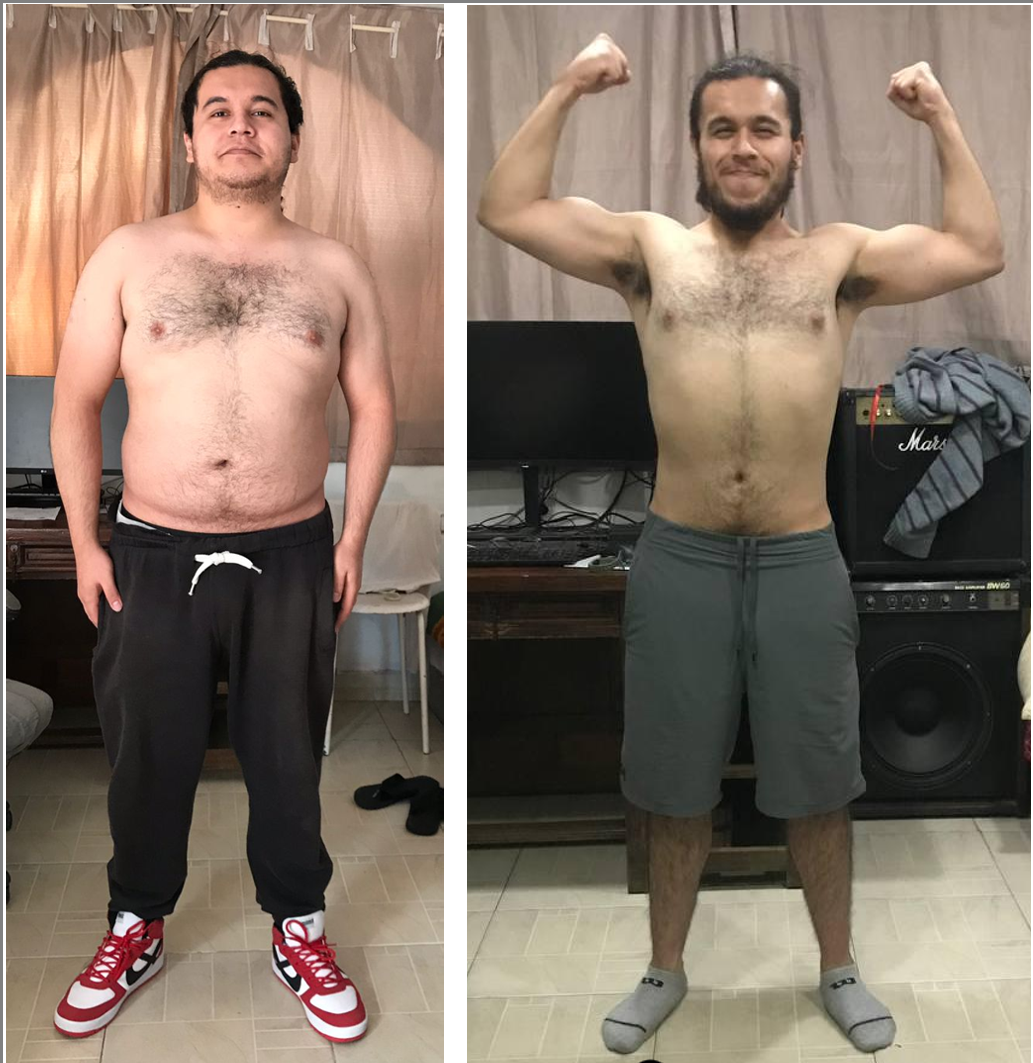
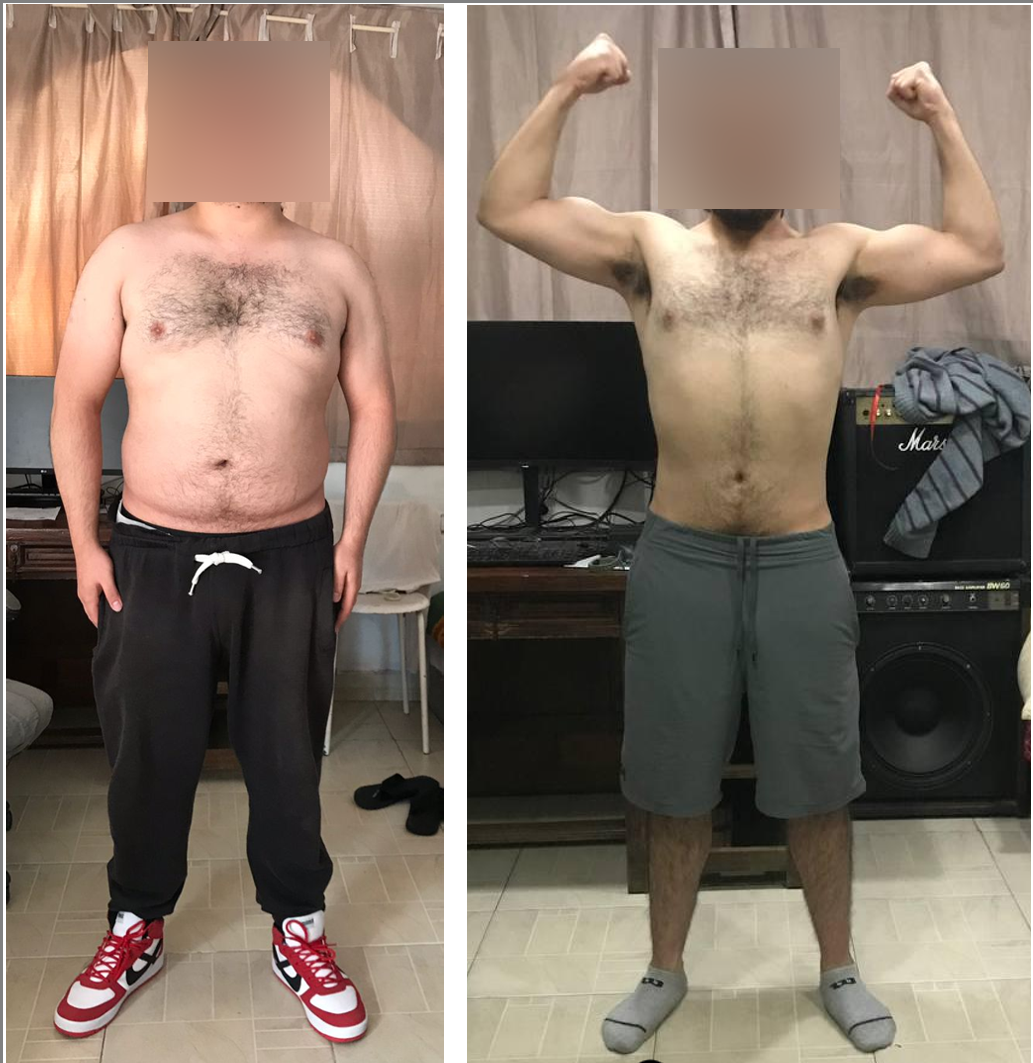
feat: Add images wiht blured faces

Changed region(s): [[0.1239, 0.031, 0.3408, 0.2173], [0.6196, 0.031, 0.8054, 0.2173]]

diff --git a/index.html b/index.html
@@ -259,7 +259,7 @@
                 <div class="d-flex align-items-stretch justify-content-center">
                   <div class="member">
                     <div class="member-img">
-                      <img src="assets/img/success_stories/success_2.jpg" class="img-fluid" alt="">
+                      <img src="assets/img/success_stories/success_2.png" class="img-fluid" alt="">
                     </div>
                     <div class="member-info">
                       <p>
@@ -273,7 +273,7 @@
                 <div class="d-flex align-items-stretch justify-content-center">
                   <div class="member">
                     <div class="member-img">
-                      <img src="assets/img/success_stories/success_3.jpg" class="img-fluid" alt="">
+                      <img src="assets/img/success_stories/success_3.png" class="img-fluid" alt="">
                     </div>
                     <div class="member-info">
                       <p>
@@ -287,7 +287,7 @@
                 <div class="d-flex align-items-stretch justify-content-center">
                   <div class="member">
                     <div class="member-img">
-                      <img src="assets/img/success_stories/success_4.jpg" class="img-fluid" alt="">
+                      <img src="assets/img/success_stories/success_4.png" class="img-fluid" alt="">
                     </div>
                     <div class="member-info">
                       <p>
@@ -315,7 +315,7 @@
                 <div class="d-flex align-items-stretch justify-content-center">
                   <div class="member">
                     <div class="member-img">
-                      <img src="assets/img/success_stories/success_6.jpg" class="img-fluid" alt="">
+                      <img src="assets/img/success_stories/success_6.png" class="img-fluid" alt="">
                     </div>
                     <div class="member-info">
                       <p>
